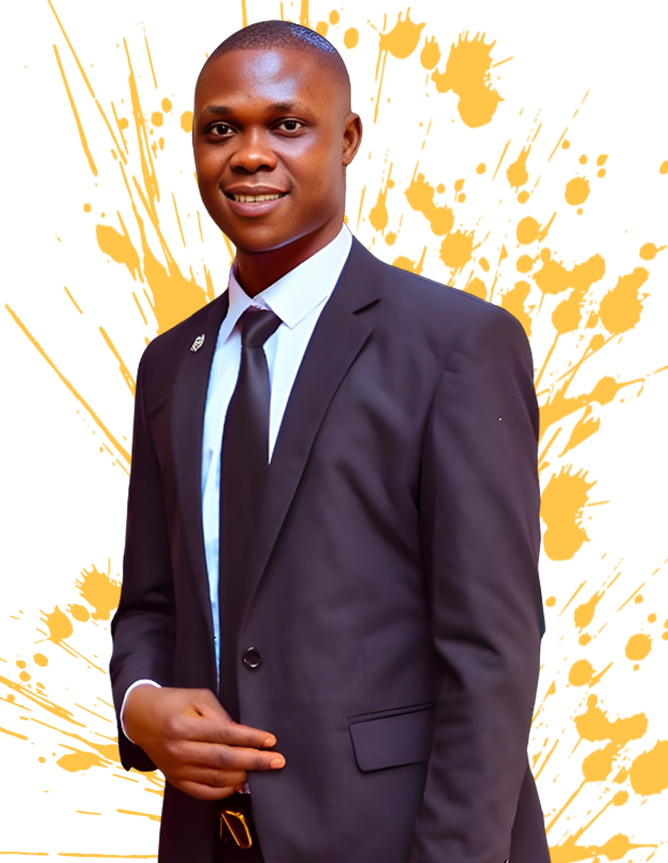
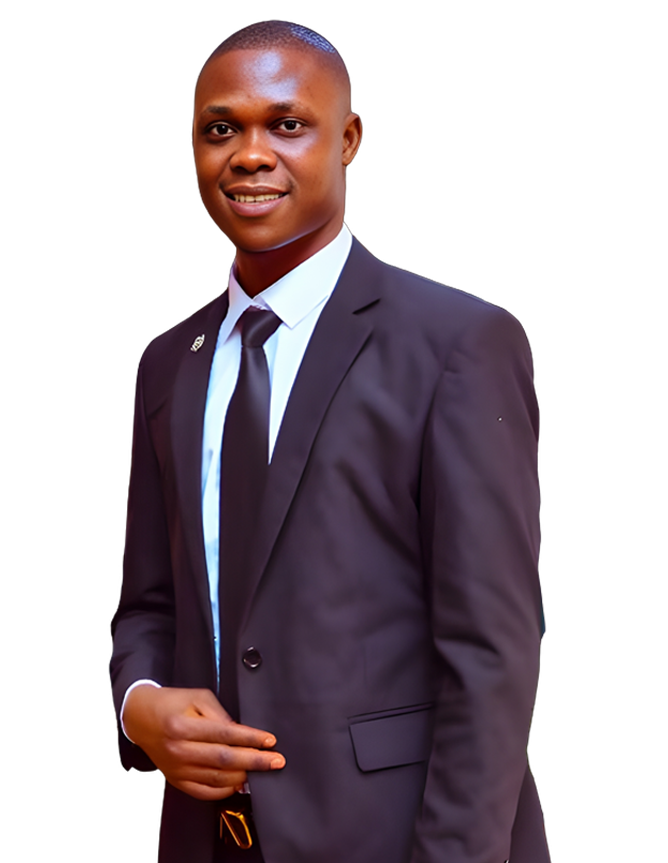
Update hero text color and other manual changes

diff --git a/index.html b/index.html
@@ -36,14 +36,8 @@
     <script src="https://cdn.jsdelivr.net/npm/typed.js@2.0.12"></script>
 </head>
 
-<body data-bs-spy="scroll" data-bs-target=".navbar" data-bs-offset="51">
-    <!-- Hero Background Video & Overlay -->
-    <div id="hero-bg-wrap" style="position: absolute; top: 0; left: 0; width: 100%; height: 100%; z-index: 0; overflow: hidden;">
-        <video id="hero-bg-video" autoplay loop muted playsinline style="width:100vw; height:100vh; object-fit:cover; min-width:100%; min-height:100%; position:absolute; top:0; left:0; z-index:0;">
-            <source src="img/background-video.mp4" type="video/mp4">
-        </video>
-        <div id="hero-bg-overlay" style="position:absolute; top:0; left:0; width:100%; height:100%; background:rgba(255,255,255,0.18); z-index:1;"></div>
-    </div>
+<body data-bs-spy="scroll" data-bs-target=".navbar" data-bs-offset="51" style="min-height:100vh; position:relative;">
+    <!-- ...existing code... -->
     <!-- Particle Background for Hero (optional, can be removed if not needed) -->
     <div id="particles-js" style="position: absolute; top: 0; left: 0; width: 100%; height: 100%; z-index: 2;"></div>
     <!-- Spinner Start -->
@@ -84,15 +78,22 @@
 
 
     <!-- Header Start -->
-    <div class="container-fluid bg-light my-6 mt-0" id="home" style="position: relative; z-index: 3;">
-        <div class="container position-relative" style="z-index: 3;">
+    <div class="container-fluid bg-light my-6 mt-0" id="home" style="position: relative; z-index: 10; min-height:100vh; overflow:hidden;">
+        <!-- Hero Background Video & Overlay (now inside hero section) -->
+        <div id="hero-bg-wrap" style="position: absolute; top: 0; left: 0; width: 100%; height: 100%; z-index: 0; overflow: hidden; pointer-events:none;">
+            <video id="hero-bg-video" autoplay loop muted playsinline style="width:100%; height:100%; object-fit:cover; position:absolute; top:0; left:0; z-index:0;">
+                <source src="img/background-video.mp4" type="video/mp4">
+            </video>
+            <div id="hero-bg-overlay" style="position:absolute; top:0; left:0; width:100%; height:100%; background:rgba(32, 21, 21, 0.52); z-index:1;"></div>
+        </div>
+        <div class="container position-relative" style="z-index: 100; min-height:100vh;">
             <div class="row g-5 align-items-center">
-                <div class="col-lg-6 py-6 pb-0 pt-lg-0">
-                    <h3 class="text-primary mb-3" data-aos="fade-up" data-aos-delay="100" style="position:relative; z-index:4;">I'm</h3>
-                    <h1 class="display-3 mb-3 typed-text-output d-inline" data-aos="fade-up" data-aos-delay="200" style="position:relative; z-index:4;">
-                        <span class="typed-text"></span>
+                <div class="col-lg-6 py-6 pb-0 pt-lg-0" style="position:relative; z-index:200;">
+                    <h3 class="text-primary mb-3" data-aos="fade-up" data-aos-delay="100" style="position:relative; z-index:201;">I'm</h3>
+                    <h1 class="mb-3 typed-text-output d-inline" data-aos="fade-up" data-aos-delay="200" style="position:relative; z-index:201; font-size:2.2rem; font-weight:700;">
+                        <span class="typed-text" style="color:#fafafa;">Augment Developer</span>
                     </h1>
-                    <div class="d-flex align-items-center pt-5" data-aos="fade-up" data-aos-delay="300" style="position:relative; z-index:4;">
+                    <div class="d-flex align-items-center pt-5" data-aos="fade-up" data-aos-delay="300" style="position:relative; z-index:201;">
                         <a href="https://grantedinvest.vercel.app" class="btn btn-primary py-3 px-4 me-5">View My Work</a>
                         <button type="button" class="btn-play" data-bs-toggle="modal"
                             data-src="https://youtu.be/xoeTQRYgVKg?si=ZKfdUoPh54mKslYo" data-bs-target="#videoModal">
@@ -101,7 +102,7 @@
                         <h5 class="ms-4 mb-0 d-none d-sm-block">Play Video</h5>
                     </div>
                 </div>
-                <div class="col-lg-6" data-aos="zoom-in" data-aos-delay="400" style="position:relative; z-index:4;">
+                <div class="col-lg-6" data-aos="zoom-in" data-aos-delay="400" style="position:relative; z-index:200;">
                     <img class="img-fluid" src="img/profile.png" alt="">
                 </div>
             </div>
